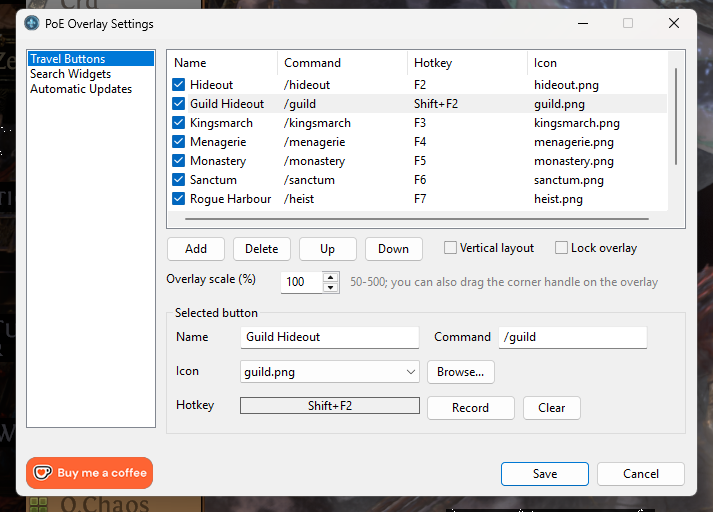
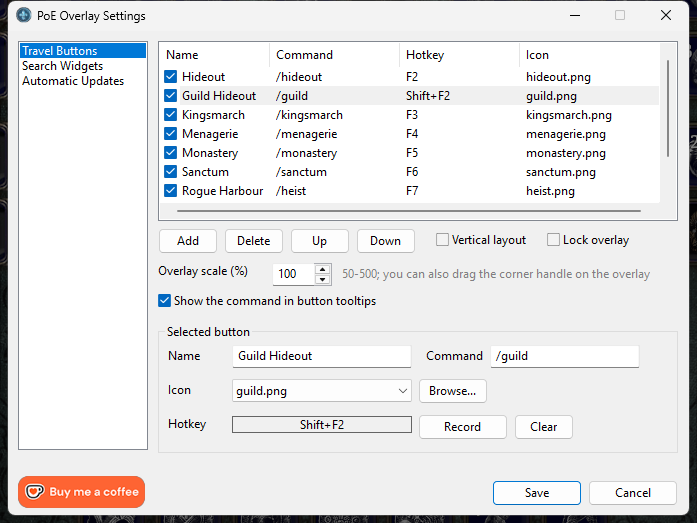
Refresh settings screenshots for the new options

Changed region(s): [[0.0, 0.0, 1.0, 1.0]]

diff --git a/README.md b/README.md
@@ -49,11 +49,11 @@ The bar only shows while the PoE window has focus. Clicking it never takes focus
 
 ![The Travel Buttons settings page](images/screenshots/04-settings-travel-buttons.png)
 
-*Travel Buttons: add, reorder, enable and edit buttons, record hotkeys, and set layout, lock and scale.*
+*Travel Buttons: add, reorder, enable and edit buttons, record hotkeys, and set layout, lock, scale and whether tooltips show the command.*
 
 ![The Search Widgets settings page](images/screenshots/05-settings-search-widgets.png)
 
-*Search Widgets: turn the feature on or off and record a hotkey that opens and closes the widgets.*
+*Search Widgets: turn the feature on or off and record a hotkey that opens and closes the widgets, and choose whether a search closes them.*
 
 ![The Automatic Updates settings page](images/screenshots/06-settings-updates.png)
 
